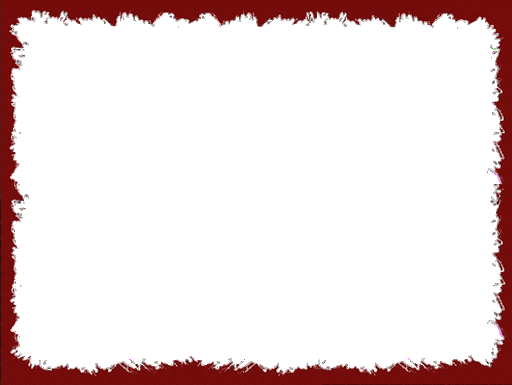
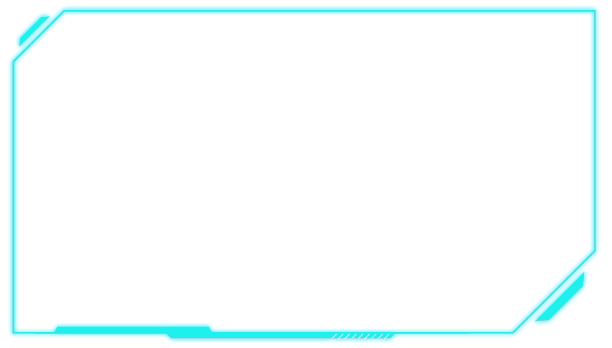
Change border
and counter added

Changed region(s): [[0.0, 0.0, 1.0, 1.0]]

diff --git a/index.html b/index.html
@@ -46,16 +46,25 @@
   
 				<style>
 			  .swiper-container {
-			   z-index: 2;
-			  box-shadow: 0 4px 8px 0 rgba(0, 0, 0, 0.2), 0 6px 20px 0 rgba(0, 0, 0, 0.19);
+		
+			   box-shadow: 0 4px 8px 0 rgba(0, 0, 0, 0.2), 0 6px 20px 0 rgba(0, 0, 0, 0.19);
+			  
 				border: 10px solid;
-				border-image: url(images/border.png) 30 round;
+				border-image: url(images/border.png) 35 round;
+				
 				
 				width: 600px;
 				height: 400px
 			
 					}
 	
+	
+	.bottomright {
+  position: absolute;
+  bottom: 8px;
+  right: 16px;
+  font-size: 18px;
+}
 			</style>	
 			<style>
 
@@ -98,6 +107,11 @@ h3
 		<h1 class="display-6 text-center text-white"  >-Code & Photography-</h1>
 		
 		
+
+<a class="bottomright" href="https://coderparadox.github.io/"><img src="https://s11.flagcounter.com/count2/LxqR/bg_FF0000/txt_FFFFFF/border_FFFF14/columns_2/maxflags_10/viewers_0/labels_0/pageviews_0/flags_0/percent_0/" alt="nE" align="bottom-right" border="0"></a>
+
+
+
 		
 				
 		
@@ -155,11 +169,11 @@ h3
 			</div>
 			
 			<!-- If we need pagination -->
-			<div class="swiper-pagination"></div>
+			<!--<div class="swiper-pagination"></div>-->
 		  
 			<!-- If we need navigation buttons -->
-		<!---	<div class="swiper-button-prev"></div>
-			<div class="swiper-button-next"></div>-->
+			<div class="swiper-button-prev"></div>
+			<div class="swiper-button-next"></div>
 		  
 			<!-- If we need scrollbar -->
 			<div class="swiper-scrollbar"></div>
@@ -202,6 +216,9 @@ h3
 });
 
 </script>
+
+
+
 
   </body>
 </html>
